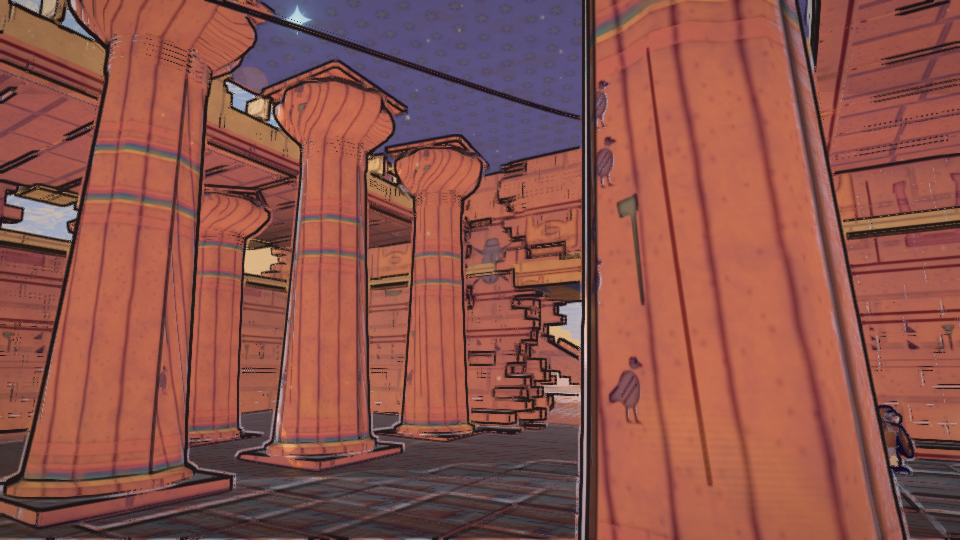
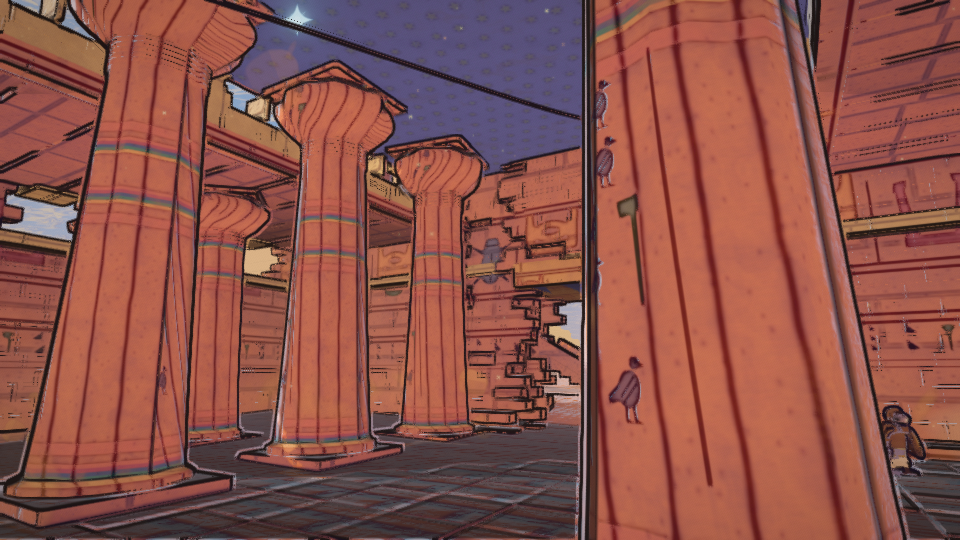
Fix ink colour space, grade channel clipping, and the overcast sky
Three of these were bugs I introduced in the composite and are only visible by
measuring pixels, not by looking.

- Ink was effectively #000000. THREE.Color(0x1a1210) stores linear values under
  three's colour management, but the ink composites into display space after both
  slyAgX and slyLinearToSrgb, so the warm near-black was applied as ~#030201.
  Commonest ink pixel in hero went #44241c -> #241c1c, in night #04044c -> #1c1434,
  which is the specified #161022. Pixels below L=10: 0.00%.
- The grade's (c - 0.5) * contrast + 0.5 ran in scene-linear HDR, where it is a
  flat -0.04 offset plus a clamp rather than a contrast. It amputated whole
  channels: #2a3f66 left the grade as #00358c with red exactly zero, and 48.9% of
  dark pixels in the night baseline had R == 0. That is why night read as pure
  blue. Replaced with a power about a 0.18 pivot; after, 0.0%.
- PostFX reached past SHADING's beginNormalPass()/endNormalPass() straight to
  .normalMaterial, so overrideMaterial stripped the hull shells' BackSide and
  clip-space expansion and each rendered as a coincident front-facing copy,
  z-fighting its host and leaving wrong normals around every outlined silhouette
  which the crease pass then inked again. Now paired in try/finally.

The Roberts cross also inked both sides of every depth step, putting half of each
line on the background; a near-side gate keeps ink inside the silhouette, and
sampling offset now grades 1.8x under 7 m to 0.70x beyond 55 m.
[…]

diff --git a/src/textures/Materials.js b/src/textures/Materials.js
@@ -426,7 +426,15 @@ export const MATERIALS = {
   },
 
   limestone_polished: {
-    group: 'stone', tier: 0, tile: 3.8, bump: 0.018, rough: 0.44,
+    /* "Polished" is the quarry finish, not the state it is in three thousand years later, and at
+     * `rough 0.44` this material behaved like one: a broad specular sheen swept across whatever
+     * large flat surface it was on. That is expensive in the composition, because the biggest
+     * surface it dresses is the `hero` foreground slab — the review's "the foreground bottom-left
+     * slab is one of the *brightest* elements in frame, inverting the intended depth read… it
+     * also carries dark blue-grey diagonal smears that read as spilled oil". A dark foreground
+     * frame is §2.3's first depth rule, and a mirror finish cannot be one. 0.68 keeps limestone
+     * distinctly smoother than sandstone (0.86–0.92) without letting it catch a sheet highlight. */
+    group: 'stone', tier: 0, tile: 3.8, bump: 0.018, rough: 0.68,
     build(s, cx) {
       // Tura casing stone: enormous, tightly jointed, near-white, still faintly polished.
       const m = ashlar(s, {
@@ -440,7 +448,7 @@ export const MATERIALS = {
          * arriving through the other door. `joint` takes the painted contrast down to a third
          * and the shallow groove leaves just enough for `heightAO` to find. */
         dark: PAL.limeDark, mid: PAL.limeMid, light: PAL.limeLight, mortar: 0xa4957a,
-        relief: 0.05, dome: 0.02, groove: 0.14, spread: 0.55, rough: 0.44, grainFreq: 16,
+        relief: 0.05, dome: 0.02, groove: 0.14, spread: 0.55, rough: 0.68, grainFreq: 16,
         bedFreq: 2, joint: 0.10,
       });
       // Sedimentary bedding — faint horizontal banding is what says "limestone" not "plaster".
@@ -770,8 +778,22 @@ export const MATERIALS = {
    * fill, so it darkens the inside of a cut whatever the lighting is doing. Raising it makes the
    * carving legible under flat ambient *and* correct once the key returns — unlike putting the
    * contrast back into the albedo, which would rebuild the painted-on look the review failed. */
+  /* `tile` is a compromise between two failures in opposite directions, and it is worth recording
+   * which is which because the first pass of this fix overshot straight into the second.
+   *
+   * Too fine and the *repeat* is what you see rather than the glyphs: at 4.2 m a 20 m pylon shows
+   * the same tile five times across and three times up, and the review counted "the same pink
+   * oval at least eight times and the same green crescent at least six… a wall of postage
+   * stamps". Too coarse and narrow surfaces starve: at 6.4 m the obelisk, whose faces are 2.6 m
+   * wide, sampled well under half a tile and usually landed on the plain-stone part of the
+   * layout, so it rendered as a bare block — §7.3's "any surface reads as flat vertex colour"
+   * arriving as the price of fixing the repetition.
+   *
+   * 5.2 m is still a quarter coarser than the version that failed, and the other two levers —
+   * three wide glyph columns instead of four, and pigment faded toward the stone — carry most of
+   * the anti-repetition work now, because a repeat you cannot pick out is not a repeat. */
   hieroglyph_wall: {
-    group: 'carved', tier: 0, tile: 6.4, bump: 0.044, rough: 0.86,
+    group: 'carved', tier: 0, tile: 5.2, bump: 0.044, rough: 0.86,
     aoStrength: 1.7, aoFloor: 0.10,
     build(s, cx) {
       const size = s.size;
@@ -835,7 +857,7 @@ export const MATERIALS = {
   },
 
   relief_figures: {
-    group: 'carved', tier: 0, tile: 6.2, bump: 0.046, rough: 0.86,
+    group: 'carved', tier: 0, tile: 5.4, bump: 0.046, rough: 0.86,
     aoStrength: 1.7, aoFloor: 0.10,
     build(s, cx) {
       const size = s.size;
